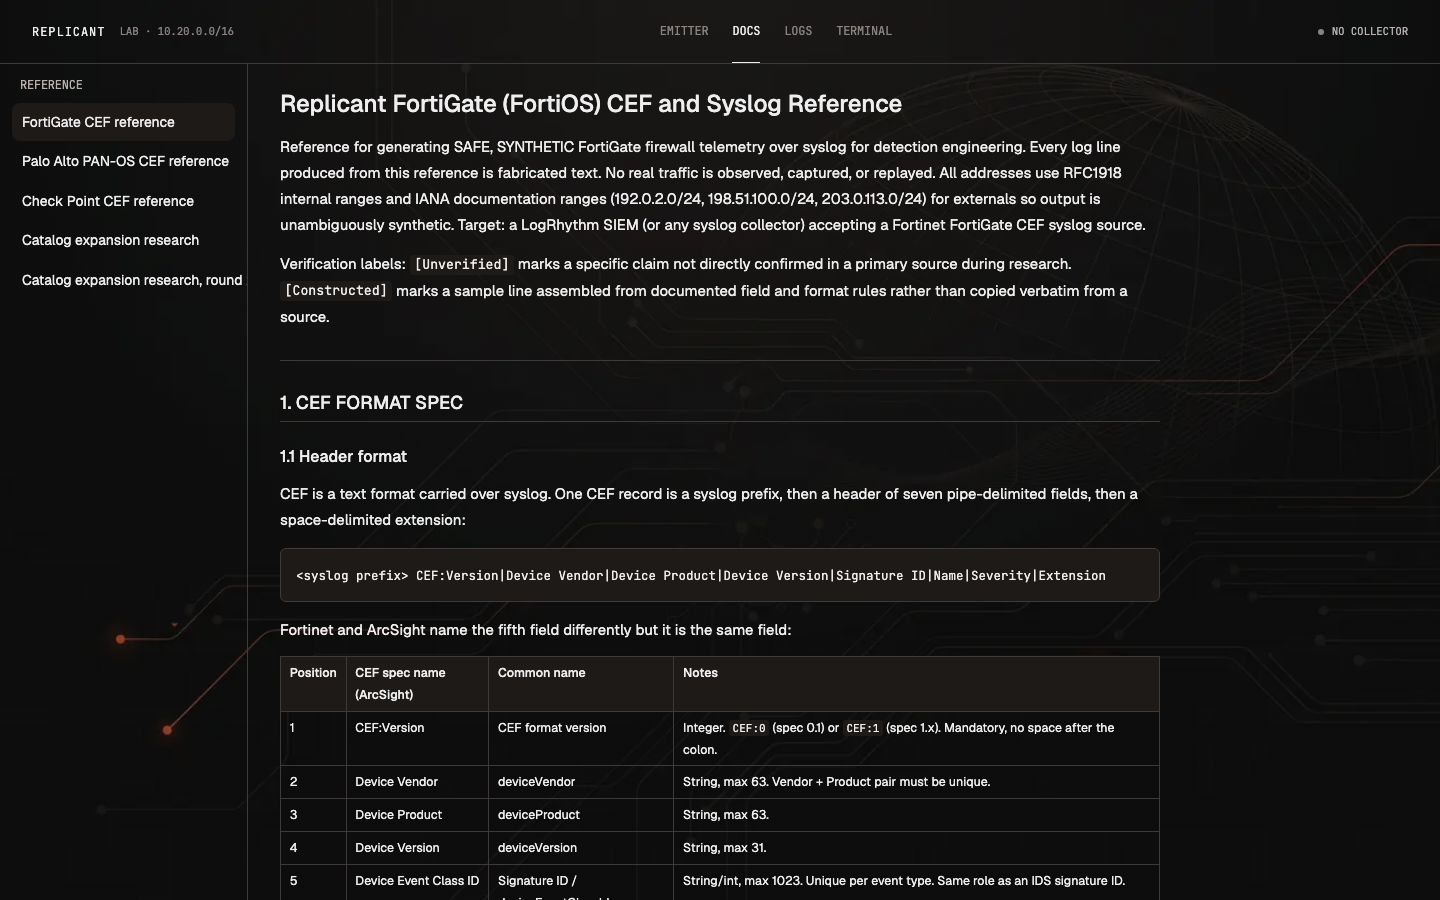
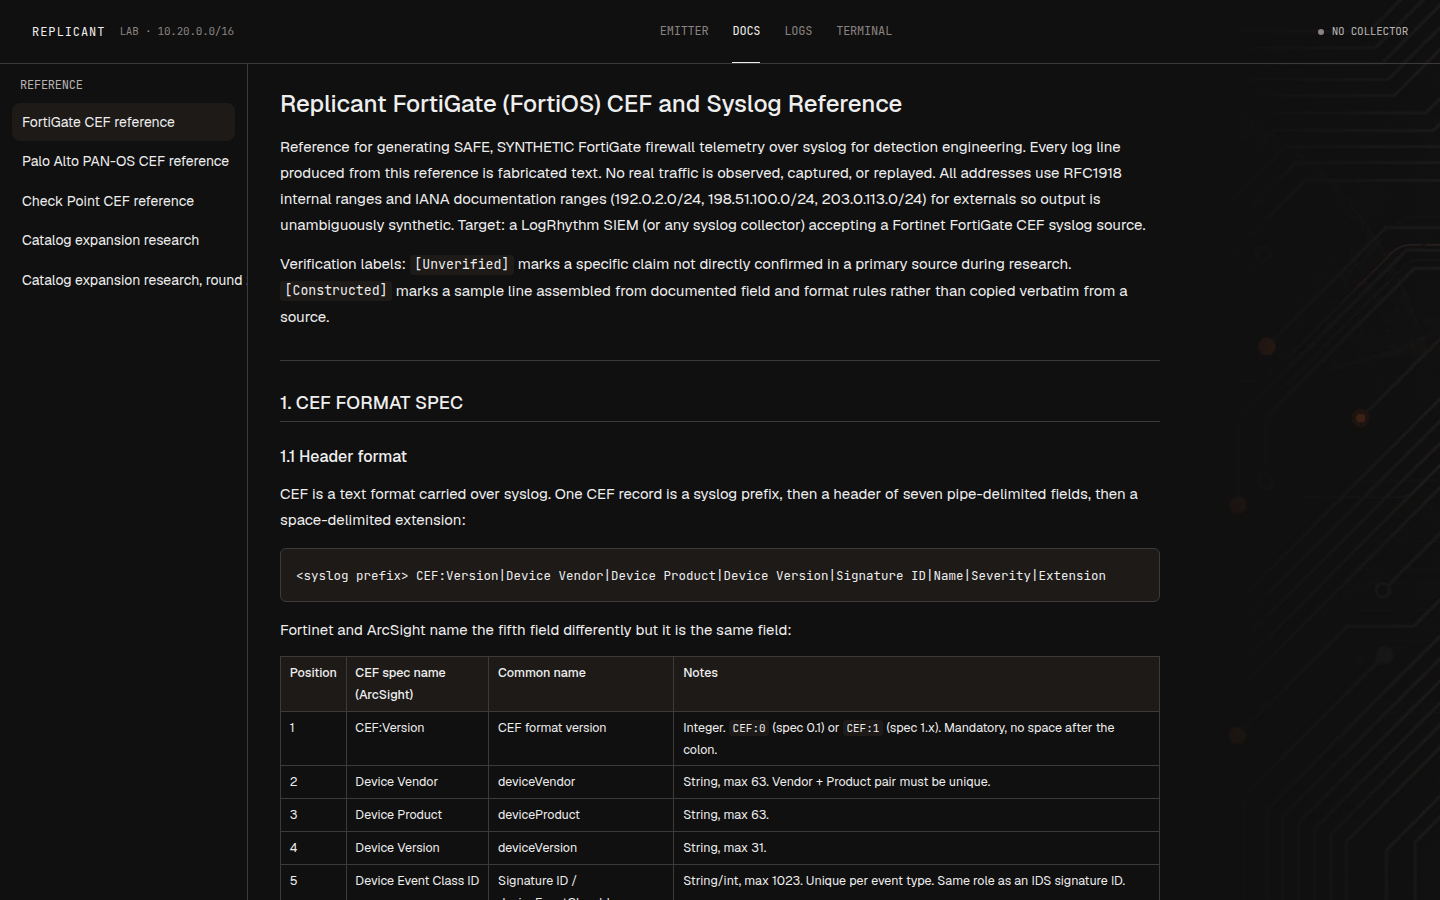
webui: replace the backdrop, which was brightest where the text is
docs/webui-factory-design.md section 4 has required since v0.6.0 that any
imagery be "darker than every text pair's measured floor". Nothing ran that
test, and the image that shipped from v0.6.0 to v0.8.0 did not pass it.

Measured on the rendered page across five scroll positions, the shipped
backdrop put the run panel's pacing hint at 1.77:1 and two technique-list
subtitles at 2.34:1 and 2.59:1, all far under AA. The wireframe globe sat
behind the hero title and an orange trace crossed the rail list.

The replacement is a lighten blend of that plate with a circuit-routing plate
generated for this palette, with a horizontal ramp holding the left 70% of the
asset at flat #101010. Every canvas-level text node now clears 4.5:1 at 1280,
1440, 1920 and 2560, at five scroll positions each. Signal orange stays a few
small trace endpoints: 0.011% of pixels against 0.023% before, so chromatic
weight went down rather than up.

The defect was positional, not one of overall brightness, which is why the
plate-level checks made at the time reported it as fine. background-attachment
is fixed: the backdrop stands still while the columns scroll text across it, so
an average over the plate says nothing and one bright trace crossing one 12px
subtitle is the whole failure. Structure has to vacate any region a column can
cover.

Three things worth keeping:

1. A measurement at one scroll position proves one scroll position. The static
[…]

diff --git a/tests/test_webui_backdrop.py b/tests/test_webui_backdrop.py
@@ -1,0 +1,149 @@
+# Copyright 2026 Imran Hafeez (RZA)
+#
+# Licensed under the Apache License, Version 2.0 (the "License");
+# you may not use this file except in compliance with the License.
+# You may obtain a copy of the License at
+#
+#     http://www.apache.org/licenses/LICENSE-2.0
+#
+# Unless required by applicable law or agreed to in writing, software
+# distributed under the License is distributed on an "AS IS" BASIS,
+# WITHOUT WARRANTIES OR CONDITIONS OF ANY KIND, either express or implied.
+# See the License for the specific language governing permissions and
+# limitations under the License.
+"""The one sanctioned image may not put structure behind the reading columns.
+
+``docs/webui-factory-design.md`` section 4 sanctions exactly one image, on
+``body``, under a flat ``--background``/0.4 scrim, and requires any future
+imagery to be "darker than every text pair's measured floor". Nothing checked it,
+and the image that shipped from v0.6.0 to v0.8.0 did not meet it: measured on the
+rendered page across five scroll positions, its brightest trace put the run
+panel's pacing hint at 1.77:1 and two technique-list subtitles at 2.34:1 and
+2.59:1, all far under AA.
+
+The defect is positional, not one of overall brightness. ``background-attachment``
+is ``fixed``, so the backdrop stands still while the columns scroll text across
+it: any region the rail or the main column can ever cover has to stay at flat
+canvas, and only the right gutter is free. This asserts exactly that, in the
+units section 4 uses, and it is deterministic because the mapping from image to
+viewport (``cover``, ``center top``) is arithmetic rather than a render.
+
+Positive control, run before this test was kept: against the previous
+``war-room-bg.webp`` the floor below measures 1.69:1 and the assertion fails.
+"""
+
+from __future__ import annotations
+
+from pathlib import Path
+
+import numpy as np
+import pytest
+from PIL import Image
+
+BACKDROP = Path(__file__).resolve().parents[1] / "webui" / "public" / "war-room-bg.webp"
+
+# The frontend source tree is absent from a wheel and from an sdist; only the
+# built `replicant/webui_dist` ships. Same reasoning as tests/test_ci_paths_filter.
+pytestmark = pytest.mark.skipif(
+    not BACKDROP.is_file(), reason="no webui/ in this tree (wheel or sdist)"
+)
+
+# index.css: linear-gradient(hsl(var(--background) / 0.4), ...) over the image.
+CANVAS = (0x10, 0x10, 0x10)  # --background
+SCRIM = 0.4
+
+# The reference viewport the design doc measures at, and the width the rail plus
+# the main column's text occupy in it. Right of this is gutter the layout never
+# fills with canvas-level text.
+VIEWPORT = (1440, 900)
+READING_COLUMNS_PX = 1150
+
+# --text-4 / --muted-foreground #8a8380, the dimmest token that renders directly
+# on the canvas. It sets the floor: anything brighter clears it automatically.
+DIMMEST_CANVAS_TEXT = (0x8A, 0x83, 0x80)
+AA_BODY = 4.5
+
+
+def _relative_luminance(rgb: np.ndarray) -> np.ndarray:
+    """WCAG 2.x relative luminance for an (..., 3) array of 0-255 channels."""
+
+    c = np.asarray(rgb, dtype=np.float64) / 255.0
+    lin = np.where(c <= 0.03928, c / 12.92, ((c + 0.055) / 1.055) ** 2.4)
+    return 0.2126 * lin[..., 0] + 0.7152 * lin[..., 1] + 0.0722 * lin[..., 2]
+
+
+def _contrast(a: float, b: float) -> float:
+    hi, lo = max(a, b), min(a, b)
+    return (hi + 0.05) / (lo + 0.05)
+
+
+def _composited_viewport(viewport: tuple[int, int] = VIEWPORT) -> np.ndarray:
+    """The backdrop as body actually paints it: cover, center top, under the scrim."""
+
+    image = Image.open(BACKDROP).convert("RGB")
+    width, height = viewport
+    scale = max(width / image.width, height / image.height)
+    image = image.resize(
+        (round(image.width * scale), round(image.height * scale)), Image.Resampling.LANCZOS
+    )
+    left = (image.width - width) // 2  # background-position: center top
+    image = image.crop((left, 0, left + width, height))
+    pixels = np.asarray(image).astype(np.float64)
+    return pixels * (1 - SCRIM) + np.array(CANVAS, dtype=np.float64) * SCRIM
+
+
+def _reading_column_floor(viewport: tuple[int, int]) -> float:
+    """Worst contrast the dimmest canvas token can meet anywhere the columns cover.
+
+    Against the brightest pixel in the band rather than its mean: a single bright
+    trace crossing one 12px subtitle is the defect this replaces, and an average
+    would have reported the old image as fine.
+    """
+
+    band = _relative_luminance(_composited_viewport(viewport)[:, :READING_COLUMNS_PX])
+    text = float(_relative_luminance(np.array(DIMMEST_CANVAS_TEXT, dtype=np.float64)))
+    return _contrast(text, float(band.max()))
+
+
+def test_backdrop_leaves_the_reading_columns_at_flat_canvas() -> None:
+    """No pixel the columns can cover may drop the dimmest canvas token under AA."""
+
+    floor = _reading_column_floor(VIEWPORT)
+
+    assert floor >= AA_BODY, (
+        f"backdrop puts {floor:.2f}:1 under #8a8380 somewhere in the left "
+        f"{READING_COLUMNS_PX}px of a {VIEWPORT[0]}x{VIEWPORT[1]} viewport; "
+        f"section 4 requires imagery darker than every text pair's floor"
+    )
+
+
+def test_backdrop_chromatic_weight_stays_at_a_few_endpoints() -> None:
+    """Signal orange in the image stays a few small endpoints, not a feature.
+
+    Section 3 reserves the chromatics for live data. The image is allowed its
+    orange trace endpoints because they are small; the guard is on area, which is
+    what reads, not on peak brightness, which one anti-aliased pixel can carry.
+    """
+
+    pixels = np.asarray(Image.open(BACKDROP).convert("RGB")).astype(np.float64)
+    red, green, blue = pixels[..., 0], pixels[..., 1], pixels[..., 2]
+    orange = (red > 90) & (red > green * 1.5) & (green > blue)
+    share = float(orange.mean())
+
+    assert share <= 0.0005, (
+        f"signal orange covers {share * 100:.3f}% of the backdrop; the sanctioned "
+        f"treatment is a few small trace endpoints (0.05% ceiling)"
+    )
+
+
+@pytest.mark.parametrize("viewport", [(1280, 800), (1920, 1080), (2560, 1440)])
+def test_backdrop_holds_at_other_viewports(viewport: tuple[int, int]) -> None:
+    """`cover` re-crops per viewport, so one measurement proves one viewport.
+
+    The reading columns are a fixed pixel width (the rail does not grow), so a
+    wider viewport shows more of the image behind the same columns.
+    """
+
+    floor = _reading_column_floor(viewport)
+
+    assert floor >= AA_BODY, f"{viewport[0]}x{viewport[1]}: floor is {floor:.2f}:1"

diff --git a/scripts/capture-webui-screenshots.py b/scripts/capture-webui-screenshots.py
@@ -46,13 +46,20 @@ import argparse
 import asyncio
 import base64
 import json
+import os
 import subprocess
 import urllib.request
 from pathlib import Path
 
 import websockets
 
-CHROME = "/Applications/Google Chrome.app/Contents/MacOS/Google Chrome"
+# macOS default, since that is where these are usually regenerated. Overridable
+# because the shots have to be retakeable wherever the UI is being changed: the
+# backdrop swap was made on Linux, and a script that cannot run there is a script
+# that leaves the committed screenshots showing a UI that has moved on.
+CHROME = os.environ.get(
+    "REPLICANT_CHROME", "/Applications/Google Chrome.app/Contents/MacOS/Google Chrome"
+)
 DEBUG_PORT = 9222
 WIDTH, HEIGHT = 1440, 900
 OUT_DIR = Path(__file__).resolve().parents[1] / "docs" / "images"
@@ -186,6 +193,11 @@ async def capture_all(url: str, views: set[str]) -> None:
             "--disable-gpu",
             "--no-first-run",
             "--user-data-dir=/tmp/replicant-shots",
+            # Chrome's sandbox refuses to start as root, which is every container
+            # this might be regenerated in. Added only for that case: a developer
+            # running as themselves keeps the sandbox, which is where the browser
+            # is pointed at a URL and it matters.
+            *(["--no-sandbox"] if hasattr(os, "geteuid") and os.geteuid() == 0 else []),
             "about:blank",
         ],
         stdout=subprocess.DEVNULL,

diff --git a/CHANGELOG.md b/CHANGELOG.md
@@ -6,6 +6,50 @@ Claims that have not been validated against a live vendor build or a real host a
 
 ## [Unreleased]
 
+### Fixed: the backdrop put its brightest structure on the text it sits behind
+
+`docs/webui-factory-design.md` section 4 has required since v0.6.0 that any
+imagery be "darker than every text pair's measured floor". Nothing ran that test,
+and the image that shipped from v0.6.0 to v0.8.0 did not pass it. Measured on the
+rendered page across five scroll positions, the shipped backdrop put the run
+panel's `Sends 243 events as fast as the rate cap allows` at **1.77:1** and two
+technique-list subtitles at **2.34:1** and **2.59:1**, all far under AA. The
+wireframe globe sat behind the hero title and an orange trace crossed the rail.
+
+The replacement is a **blend** of that plate with a denser circuit-routing plate
+generated for this palette, with a horizontal ramp holding the left 70% of the
+asset at flat `#101010`. It holds every canvas-level text node at or above
+**4.5:1** at 1280, 1440, 1920 and 2560, at five scroll positions each. Signal
+orange stays a few small trace endpoints: 0.011% of pixels, against 0.023% in the
+image it replaces, so chromatic weight went down rather than up.
+
+**The defect was positional, not one of overall brightness**, which is why the
+plate-level luminance checks that were run at the time reported it as fine.
+`background-attachment` is `fixed`: the backdrop stands still while the columns
+scroll text across it, so an average over the plate says nothing and one bright
+trace crossing one 12px subtitle is the entire failure. Structure has to vacate
+any region a column can cover.
+
+Three things this established:
+
+1. **A measurement at one scroll position proves one scroll position.** The
+   static shot found 2.34:1; scrolling the same page found 1.77:1 on a node the
+   first pass never had under the image at all. Anything behind a fixed backdrop
+   has to be measured through its scroll range.
+2. **The guard is stricter than the page on purpose.** It treats the full left
+   1150px as reading columns at every viewport, where the real text wraps
+   narrower. It failed the first candidate at 1280 (4.19:1) when the rendered
+   page said every real node cleared 4.5; the candidate was moved rather than the
+   guard, because a guard tuned until it passes has stopped being one.
+3. **A brightness cap would not have caught this and does not replace it.** The
+   old and new plates have almost the same peak and the same orange area. What
+   changed is where the bright pixels are.
+
+Guarded by `tests/test_webui_backdrop.py`, whose positive control is recorded:
+against the previous asset it reports 1.69:1 and four of its five assertions
+fail. `pillow` joins the `dev` extra for it; nothing at runtime decodes the
+image, the browser does.
+
 ## [0.8.0] - 2026-08-31
 
 ### Fixed: the eighth golden line of every vendor was never compared

diff --git a/docs/webui-factory-design.md b/docs/webui-factory-design.md
@@ -78,6 +78,37 @@ no red; errors and warnings are status and speak in the signal orange
   under a flat `--background`/0.4 scrim. Cards are opaque, so it reads as
   texture on the canvas only. Any future imagery goes through the same test:
   darker than every text pair's measured floor, or it does not ship.
+
+  That test was stated here from v0.6.0 and nothing ran it, so the image that
+  shipped until v0.8.0 did not pass it. Measured on the rendered page across five
+  scroll positions, its brightest trace put the run panel's pacing hint at
+  **1.77:1**, and two technique-list subtitles at **2.34:1** and **2.59:1**. The
+  replacement is a blend of that plate with a denser routing plate, and it holds
+  every canvas-level text node at or above 4.5:1 at 1280, 1440, 1920 and 2560.
+
+  **The defect was positional, not one of overall brightness**, and that is the
+  rule to carry forward. `background-attachment` is `fixed`, so the backdrop
+  stands still while the columns scroll text across it: brightness averaged over
+  the plate says nothing, because one bright trace crossing one 12px subtitle is
+  the whole failure. Structure has to vacate any region a column can cover, which
+  in this layout means everything left of the right gutter. It is enforced by a
+  horizontal ramp in the asset itself (flat canvas until 70% of the image width),
+  not by CSS, so the constraint survives any later change to `background-size` or
+  `background-position` that keeps the image inside the frame.
+
+  Provenance, so a later change knows what it is editing: the shipped asset is a
+  lighten blend of the original v0.6.0 plate with a circuit-routing plate
+  generated for this palette (Higgsfield, Nano Banana Pro, 21:9 at 4K), then
+  ramped and reduced to 1920x815 WebP. The ramp and the orange-area reduction are
+  deterministic post-processing, not part of the generation.
+
+  `tests/test_webui_backdrop.py` is the guard. It is arithmetic on the asset
+  rather than a render, because the mapping (`cover`, `center top`) is arithmetic;
+  it is deliberately stricter than the rendered page (it treats the full left
+  1150px as reading columns at every viewport, where the real text wraps
+  narrower), so it fails a little early rather than a little late. Positive
+  control: against the previous asset it reports 1.69:1 and four of its five
+  assertions fail.
 - Segmented controls: content-sized segments, `white-space: nowrap`, 10-12px
   horizontal padding. "Check Point" has wrapped or clipped three separate times in
   equal-width segments; do not reintroduce `flex-1` there.

diff --git a/CLAUDE.md b/CLAUDE.md
@@ -258,6 +258,28 @@ Output convention: command results go to stdout, operator-facing errors go to st
   surfaced as five failures, every one a true report about shared global state rather than a
   defect in the thing under test, which is why the fix was isolation and not a weaker lock.
 
+- Backdrop contrast (complete): the one sanctioned image had never been run against the
+  test the design doc states for it. Measured on the rendered page through five scroll
+  positions, it put the run panel's pacing hint at 1.77:1 and two rail subtitles at
+  2.34:1 and 2.59:1. Replaced by a blend of that plate with a denser routing plate,
+  ramped to flat canvas across the left 70% of the asset; every canvas-level node now
+  clears 4.5:1 at 1280/1440/1920/2560. Guard: `tests/test_webui_backdrop.py`.
+
+  Three conventions this established:
+  1. **A measurement at one scroll position proves one scroll position.** `body` uses
+     `background-attachment: fixed`, so the backdrop stands still while the columns
+     scroll text across it. The static shot found 2.34:1; scrolling the same page found
+     1.77:1 on a node the first pass never had under the image at all.
+  2. **The defect was positional, not one of overall brightness.** Old and new plates
+     have nearly the same peak luminance and the same orange area; what changed is where
+     the bright pixels sit. A brightness cap would have passed both, which is why the
+     rule is that structure vacates any region a column can cover.
+  3. **When the guard and the page disagree, move the artwork, not the guard.** The
+     guard is deliberately stricter than the layout (it treats the full left 1150px as
+     reading columns at every viewport). It failed a candidate at 1280 that the rendered
+     page said was fine; the candidate was changed. A guard tuned until it passes has
+     stopped being one.
+
 Next up, not started: a live-vendor pass to replace the `[Unverified]` markers on the Palo Alto and Check Point references with confirmed output, which needs real appliances. The React web UI itself shipped in Phase 1.5; there is no separate later phase for it.
 
 **The LogRhythm lab test has still never run**, so every timing and delivery claim in this
